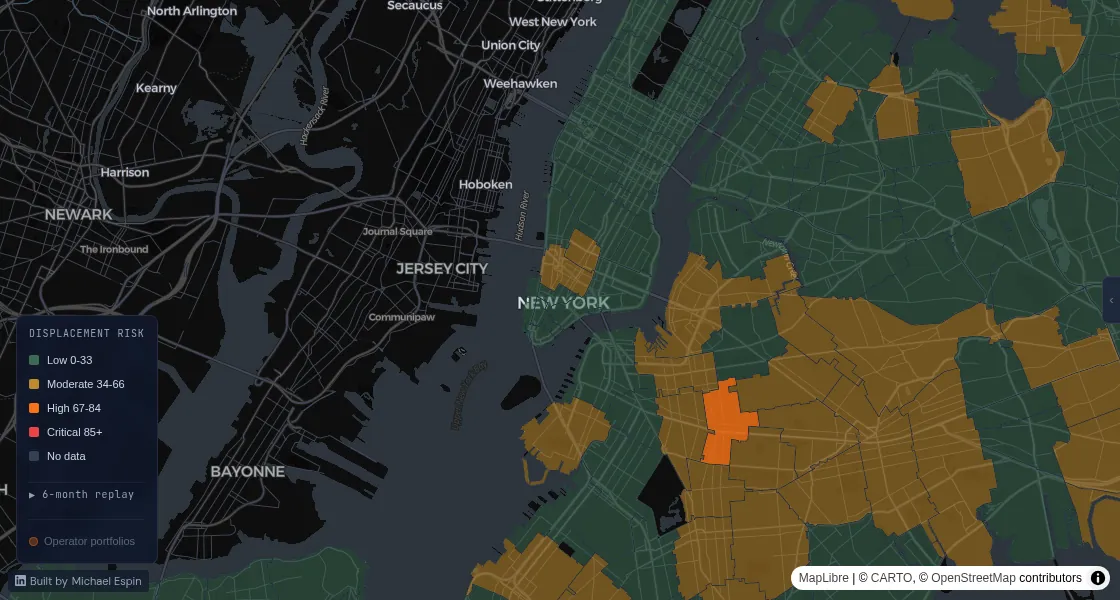
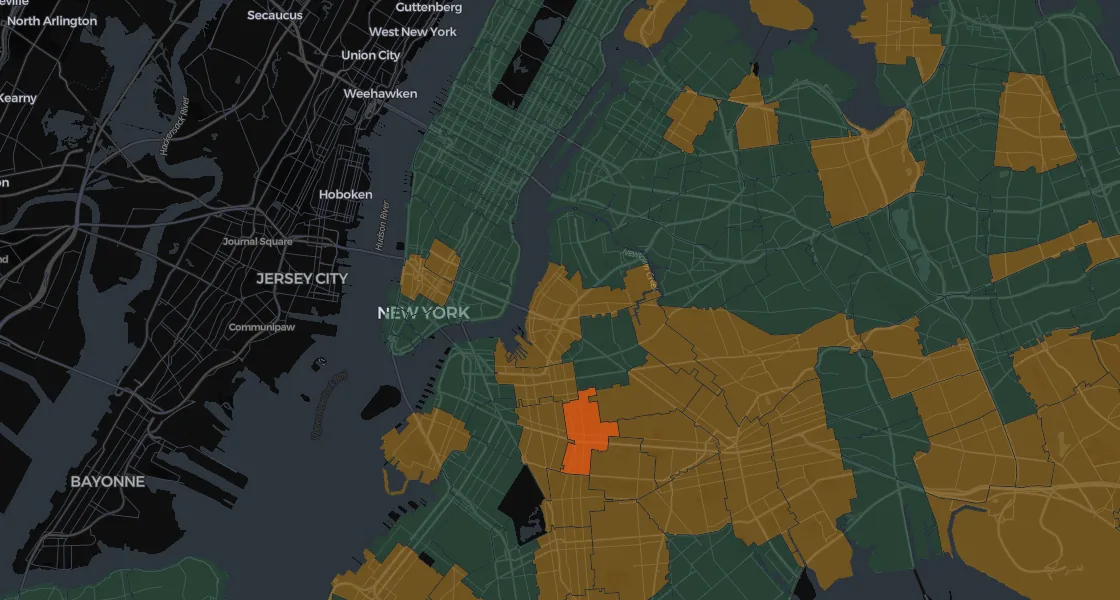
design(structure): ledger strips, data-drawn hero trace, honest map preview
- displacement and this-week stat cards become ruled ledger strips, the
  treatment the borough pages and flip ledgers already use; landing
  modules drop their identical rounded boxes for ruled columns
- the hero pulse-trace now draws the top-risk neighborhood's last 90
  days from score history; the decorative squiggle stays as fallback
- map preview re-shot from the live app so landing, legend, and map
  finally show the same muted ramp; cache-buster bumped past the
  30-day immutable window
- trend chart snaps its axis to human steps (65/70/75, never 67/71/75)

Claude-Session: https://claude.ai/code/session_01NXfccS54KwF1PEXJXmgLZm

diff --git a/frontend/index.html b/frontend/index.html
@@ -336,13 +336,13 @@
         .docket-cta:hover { text-decoration: underline; }
 
         /* ── Module row ──────────────────────────────────────────────── */
-        .modules { display: grid; grid-template-columns: repeat(3, 1fr); gap: 14px; }
+        .modules { display: grid; grid-template-columns: repeat(3, 1fr); gap: 0; border-top: 1px solid rgba(147, 161, 173, 0.22); }
         .module {
-            background: var(--surface); border: 1px solid var(--border); border-radius: 12px;
-            padding: 18px 18px 14px;
+            padding: 16px 18px 14px 0;
             min-height: 240px;
             display: flex; flex-direction: column;
         }
+        .module + .module { border-left: 1px solid var(--border); padding-left: 18px; }
         .module-label {
             font-family: var(--mono); font-size: 10.5px; font-weight: 600;
             letter-spacing: 0.12em; text-transform: uppercase; color: var(--muted);
@@ -395,7 +395,8 @@
             .search-row { flex-direction: column; }
             .search-row button { width: 100%; }
             .modules { grid-template-columns: 1fr; }
-            .module { min-height: 0; }
+            .module { min-height: 0; padding-right: 0; }
+            .module + .module { border-left: none; border-top: 1px solid var(--border); padding-left: 0; padding-top: 16px; }
             .docket-head { font-size: 10px; }
         }
 
@@ -465,8 +466,8 @@
         <div>
             <a class="hero-map" href="/map" id="cta-explore" aria-label="Explore the displacement risk map">
                 <picture>
-                    <source srcset="/map-preview-560.webp?v=3 560w, /map-preview.webp?v=3 1120w" sizes="(max-width: 860px) calc(100vw - 40px), 340px" type="image/webp">
-                    <img src="/map-preview.jpg?v=3" srcset="/map-preview-560.jpg?v=3 560w, /map-preview.jpg?v=3 1120w" sizes="(max-width: 860px) calc(100vw - 40px), 340px" width="1120" height="600" alt="NYC displacement risk map" loading="eager" fetchpriority="high" decoding="async">
+                    <source srcset="/map-preview-560.webp?v=4 560w, /map-preview.webp?v=4 1120w" sizes="(max-width: 860px) calc(100vw - 40px), 340px" type="image/webp">
+                    <img src="/map-preview.jpg?v=4" srcset="/map-preview-560.jpg?v=4 560w, /map-preview.jpg?v=4 1120w" sizes="(max-width: 860px) calc(100vw - 40px), 340px" width="1120" height="600" alt="NYC displacement risk map" loading="eager" fetchpriority="high" decoding="async">
                 </picture>
                 <span class="map-explore" data-i18n="explore_map">Explore the map &rarr;</span>
             </a>
@@ -803,11 +804,52 @@
     });
     applyLang(_lang);
 
+    // The hero trace is the brand mark drawn from live data: the current
+    // top-risk neighborhood's daily score, last 90 days. The static polyline
+    // stays as the no-JS fallback.
+    function drawPulseTrace(zip, name) {
+        fetch('/api/score-history/' + encodeURIComponent(zip) + '?days=90')
+            .then(r => r.ok ? r.json() : null)
+            .then(hist => {
+                if (!Array.isArray(hist) || hist.length < 14) return;
+                var svg = document.querySelector('.pulse-trace');
+                var line = svg && svg.querySelector('polyline');
+                if (!line) return;
+                var scores = hist.map(p => p.score);
+                var lo = Math.min.apply(null, scores) - 1;
+                var hi = Math.max.apply(null, scores) + 1;
+                var rng = (hi - lo) || 1;
+                var x0 = 40, x1 = 220;
+                var pts = scores.map((s, i) => {
+                    var x = x0 + (i / (scores.length - 1)) * (x1 - x0);
+                    var y = 4 + (1 - (s - lo) / rng) * 16;
+                    return x.toFixed(1) + ',' + y.toFixed(1);
+                });
+                var yEnd = pts[pts.length - 1].split(',')[1];
+                var yStart = pts[0].split(',')[1];
+                // The draw-in dash animation is sized for the decorative line;
+                // the data line has a different length, so render it solid.
+                line.style.animation = 'none';
+                line.style.strokeDasharray = 'none';
+                line.style.strokeDashoffset = '0';
+                line.setAttribute('points', '0,' + yStart + ' ' + pts.join(' ') + ' 260,' + yEnd);
+                svg.removeAttribute('aria-hidden');
+                svg.setAttribute('role', 'img');
+                svg.setAttribute('aria-label', name + ' daily displacement score, last 90 days');
+                var t = document.createElementNS('http://www.w3.org/2000/svg', 'title');
+                t.textContent = name + ' (' + zip + '), daily score, last 90 days';
+                svg.appendChild(t);
+            }).catch(() => {});
+    }
+
     fetch('/api/stats').then(r => r.ok ? r.json() : null).then(data => {
         if (!data) return;
         _stats = data;
         renderMeta();
         renderRankings();
+        if (data.top_risk && data.top_risk.zip_code) {
+            drawPulseTrace(data.top_risk.zip_code, data.top_risk.name || data.top_risk.zip_code);
+        }
     }).catch(() => {});
 
     fetch('/api/operators/top?limit=3').then(r => r.ok ? r.json() : null).then(ops => {

diff --git a/api/routes/frontend.py b/api/routes/frontend.py
@@ -10,6 +10,7 @@ GET /operators                — server-side rendered directory of all tracked 
 import html as _html
 import json
 import logging
+import math
 import re
 import time
 from datetime import date, timedelta
@@ -502,8 +503,13 @@ def _trend_svg(history: list[tuple[str, float]]) -> str:
         return ""
 
     scores = [s for _, s in history]
-    lo = max(0.0, min(scores) - 2.0)
-    hi = min(100.0, max(scores) + 2.0)
+    raw_lo = max(0.0, min(scores) - 2.0)
+    raw_hi = min(100.0, max(scores) + 2.0)
+    # Snap the axis to a human step so gridlines read 65/70/75, never 67/71/75.
+    span = raw_hi - raw_lo
+    step = next((s for s in (1, 2, 5, 10, 20) if span <= s * 4), 25)
+    lo = max(0.0, math.floor(raw_lo / step) * step)
+    hi = min(100.0, math.ceil(raw_hi / step) * step)
     rng = (hi - lo) or 1.0
 
     w, h = 640.0, 150.0
@@ -521,14 +527,16 @@ def _trend_svg(history: list[tuple[str, float]]) -> str:
     last_x, last_y = pts[-1].split(",")
 
     grid = ""
-    for frac, val in ((0.0, hi), (0.5, lo + rng / 2), (1.0, lo)):
-        gy = py_t + frac * plot_h
+    val = lo
+    while val <= hi + 1e-9:
+        gy = py_t + (1 - (val - lo) / rng) * plot_h
         grid += (
             f'<line x1="{px_l}" y1="{gy:.1f}" x2="{px_l + plot_w}" y2="{gy:.1f}" '
             f'stroke="rgba(147,161,173,.12)" stroke-width="1"/>'
             f'<text x="{px_l + 2}" y="{gy - 4:.1f}" font-size="10" '
             f'font-family="JetBrains Mono,monospace" fill="rgba(147,161,173,.45)">{val:.0f}</text>'
         )
+        val += step
 
     def _md(iso: str) -> str:
         try:
@@ -3461,10 +3469,10 @@ h2{font-size:0.78rem;font-weight:600;color:rgba(147,161,173,0.75);text-transform
 .tw-delta{font-family:'JetBrains Mono',monospace;font-size:1rem;font-weight:500;line-height:1.1}
 .tw-score{font-size:0.68rem;color:rgba(147,161,173,0.55)}
 .tw-empty{padding:18px 0;font-size:0.8rem;color:#93a1ad}
-.tw-stats{display:grid;grid-template-columns:repeat(auto-fit,minmax(150px,1fr));gap:12px;margin-top:12px}
-.tw-stat{background:rgba(27,37,52,0.5);border:1px solid rgba(147,161,173,0.1);border-radius:10px;padding:16px}
-.tw-stat-n{font-family:'JetBrains Mono',monospace;font-size:1.5rem;font-weight:600;color:#eef2f5}
-.tw-stat-l{font-size:0.72rem;color:#93a1ad;margin-top:4px}
+.tw-stats{display:flex;flex-wrap:wrap;gap:10px 36px;margin-top:12px;padding:12px 2px;border-top:1px solid rgba(147,161,173,0.22);border-bottom:1px solid rgba(147,161,173,0.1)}
+.tw-stat{display:flex;align-items:baseline;gap:8px}
+.tw-stat-n{font-family:'JetBrains Mono',monospace;font-size:1.25rem;font-weight:600;color:#eef2f5;line-height:1}
+.tw-stat-l{font-size:0.68rem;color:#93a1ad;text-transform:uppercase;letter-spacing:0.06em}
 .wk-nav{display:flex;justify-content:space-between;gap:12px;margin-top:36px;font-family:'JetBrains Mono',monospace;font-size:0.75rem}
 .wk-nav a{color:rgba(237,99,23,0.8)}
 .wk-idx{list-style:none;padding:0;margin:0}
@@ -4231,12 +4239,12 @@ nav{border-bottom:1px solid rgba(147,161,173,0.08);padding:12px 0;position:stick
 .eyebrow{font-family:'JetBrains Mono',monospace;font-size:0.72rem;letter-spacing:0.18em;color:#ed6317;text-transform:uppercase;margin-bottom:14px}
 h1{font-family:'Bricolage Grotesque',sans-serif;font-weight:700;font-size:clamp(2rem,5.4vw,3.1rem);line-height:1.04;letter-spacing:-0.02em;margin-bottom:14px}
 .lede{font-size:1.05rem;color:#93a1ad;max-width:620px;line-height:1.5}
-.stats{display:grid;grid-template-columns:repeat(4,1fr);gap:14px;margin:34px 0 8px}
-.stat{border:1px solid rgba(147,161,173,0.12);border-radius:12px;padding:16px 14px;background:rgba(147,161,173,0.03)}
-.stat-num{font-family:'Bricolage Grotesque',sans-serif;font-weight:700;font-size:1.9rem;line-height:1;color:#eef2f5}
-.stat-unit{font-size:0.9rem;color:#677686;font-weight:600}
-.stat-label{font-size:0.72rem;color:#93a1ad;margin-top:8px;line-height:1.3}
-@media(max-width:640px){.stats{grid-template-columns:repeat(2,1fr)}}
+.stats{display:flex;flex-wrap:wrap;gap:10px 40px;margin:34px 0 8px;padding:14px 2px;border-top:1px solid rgba(147,161,173,0.22);border-bottom:1px solid rgba(147,161,173,0.1)}
+.stat{display:flex;align-items:baseline;gap:8px}
+.stat-num{font-family:'JetBrains Mono',monospace;font-weight:600;font-size:1.35rem;line-height:1;color:#eef2f5}
+.stat-unit{font-size:0.8rem;color:#677686;font-weight:600}
+.stat-label{font-size:0.68rem;color:#93a1ad;text-transform:uppercase;letter-spacing:0.06em;line-height:1.3}
+@media(max-width:640px){.stats{gap:10px 24px}}
 .section{margin-top:44px}
 .sec-h{font-family:'Bricolage Grotesque',sans-serif;font-weight:600;font-size:1.3rem;letter-spacing:-0.01em;display:flex;align-items:baseline;justify-content:space-between;gap:12px}
 .sec-more{font-family:'JetBrains Mono',monospace;font-size:0.74rem;color:#ed6317;white-space:nowrap}
